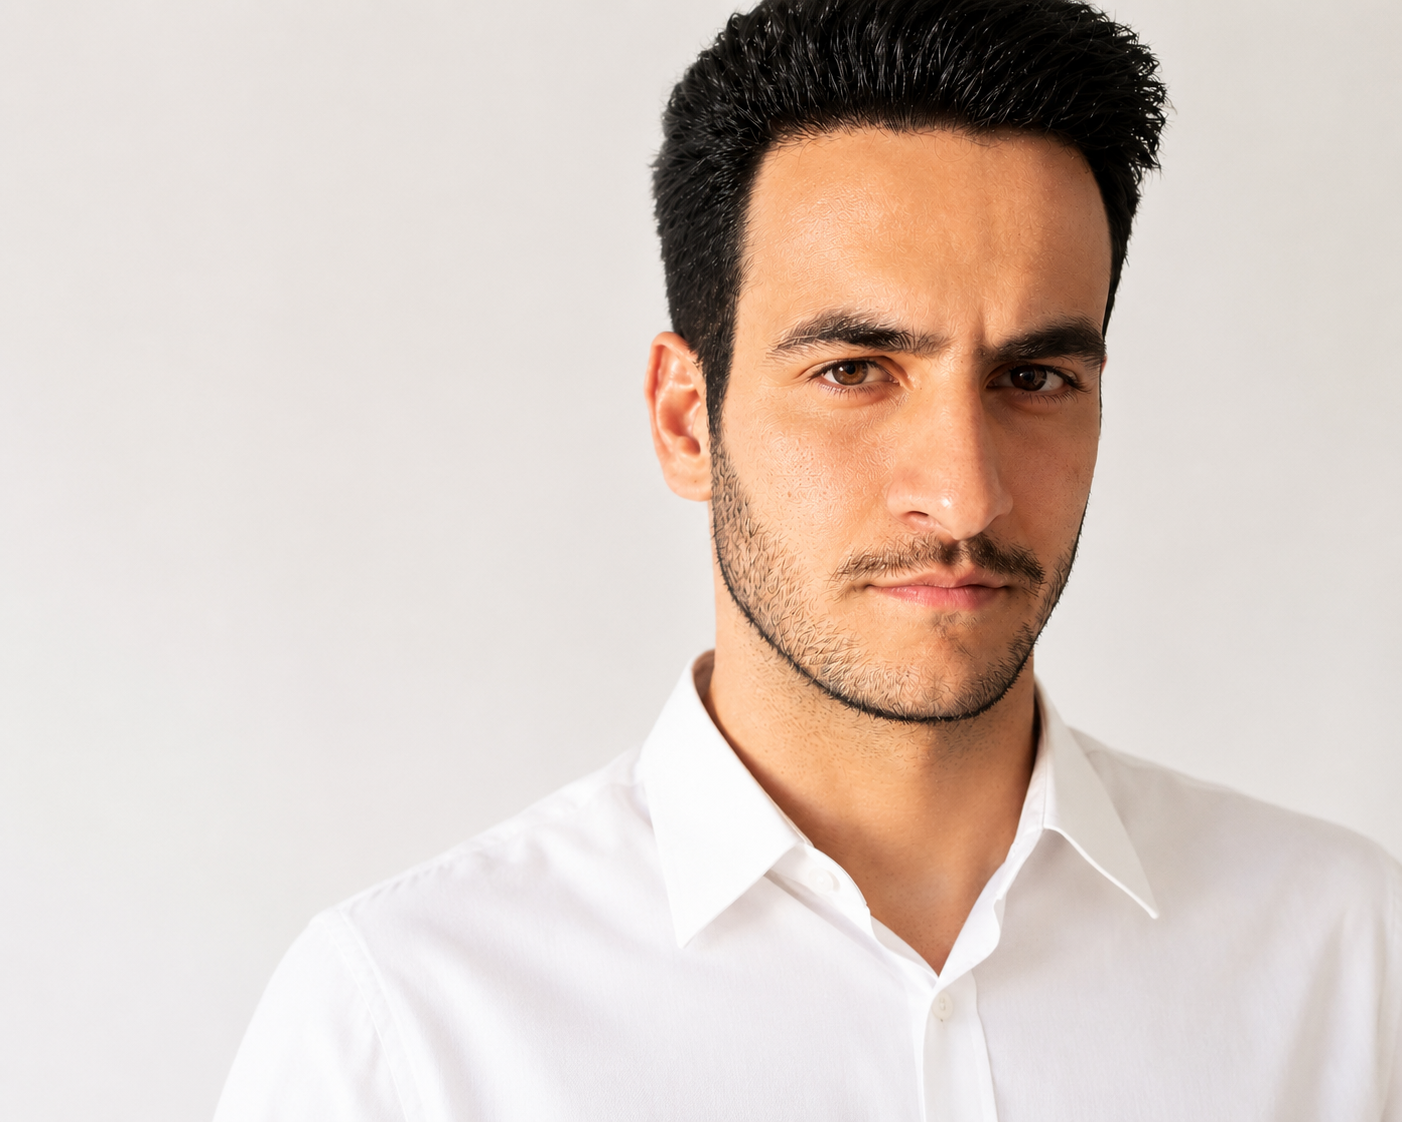
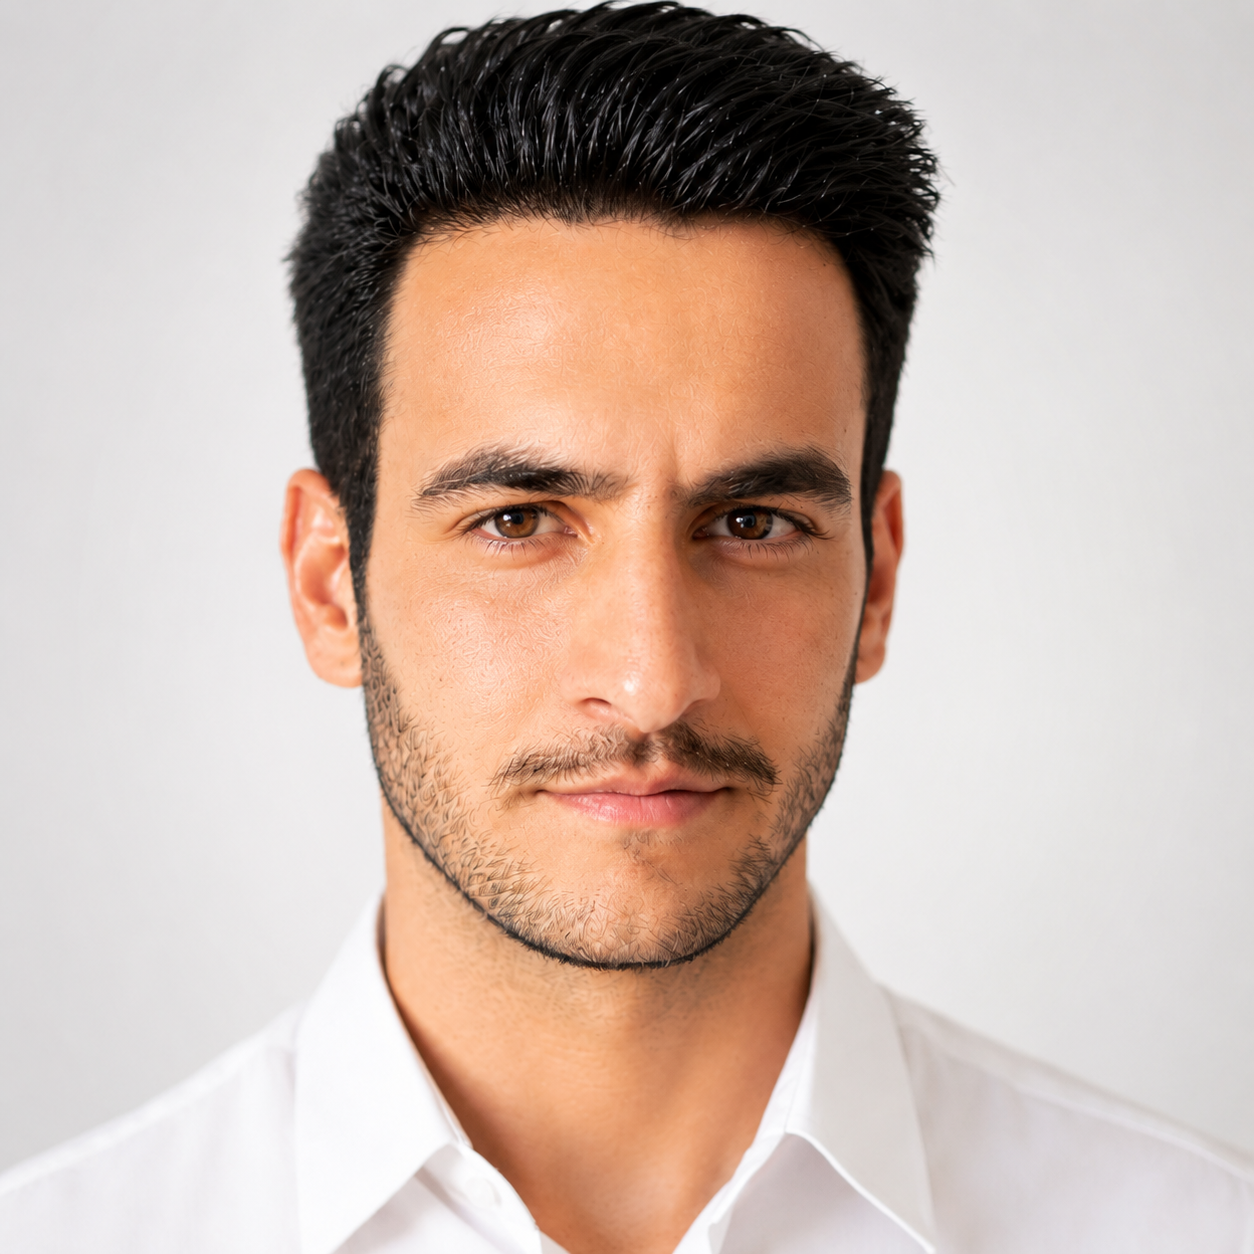
feat(image_style_update): enhance CSS for profile image
- Use new profile image (new image have better lighting and focal lenght)

diff --git a/assets/css/extended/custom.css b/assets/css/extended/custom.css
@@ -1,6 +1,8 @@
 /* Profile image — maintain aspect ratio, circular crop */
 .profile_inner img {
-  object-fit: contain;
+  width: 50%;
+  height: 50%;
+  object-fit: cover;
   border-radius: 100%;
   aspect-ratio: 1 / 1;
 }